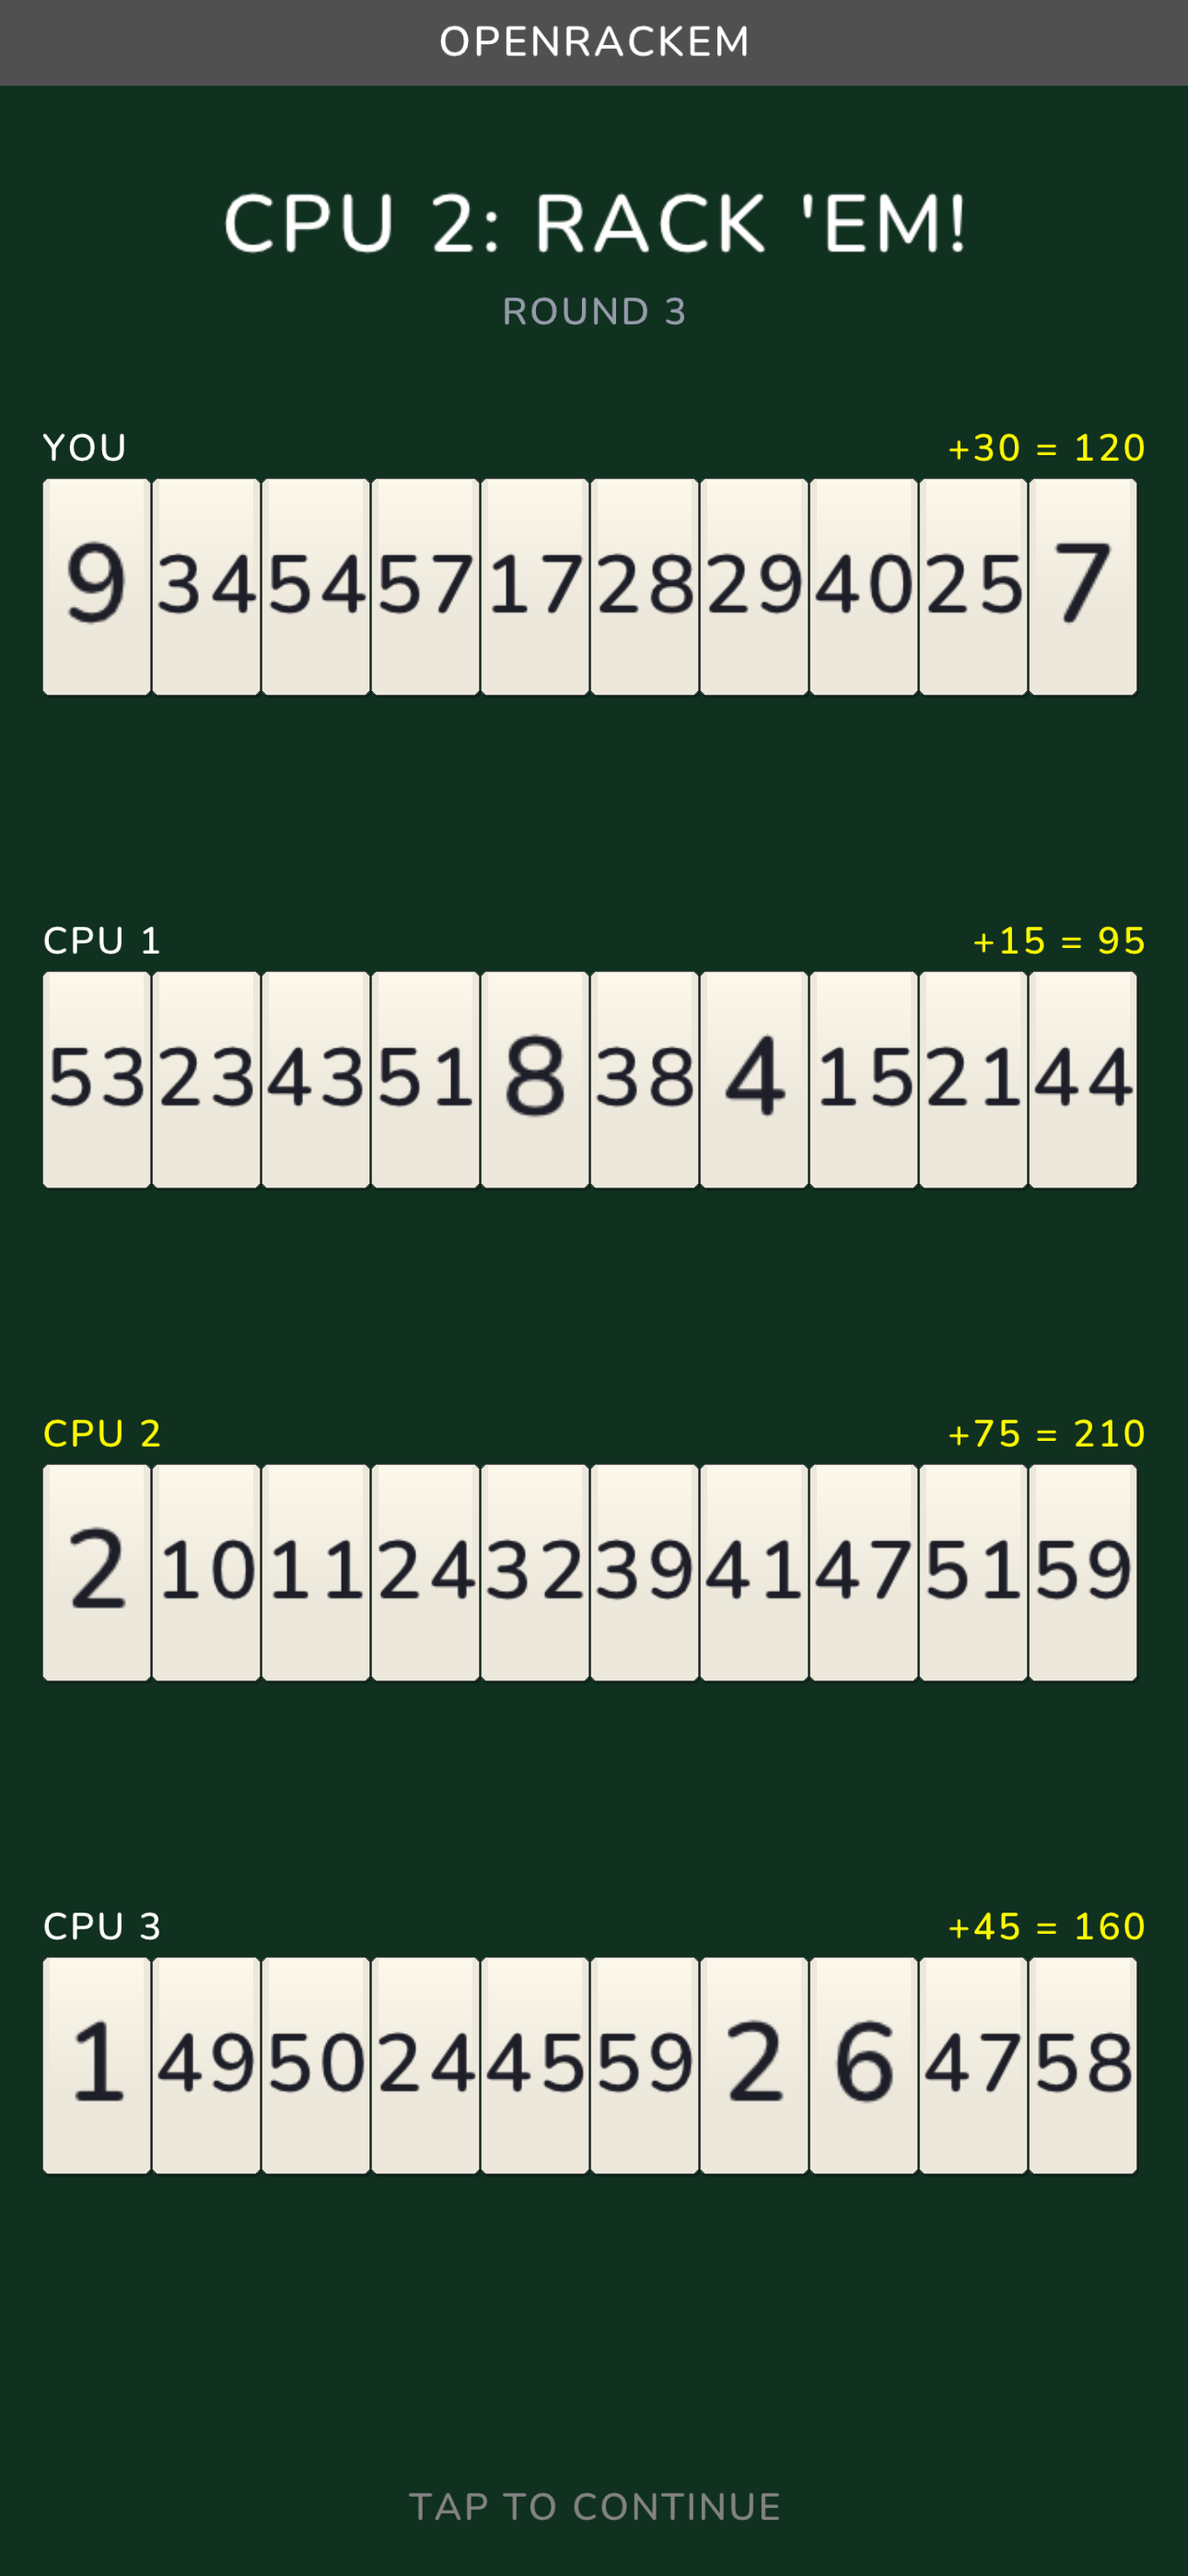
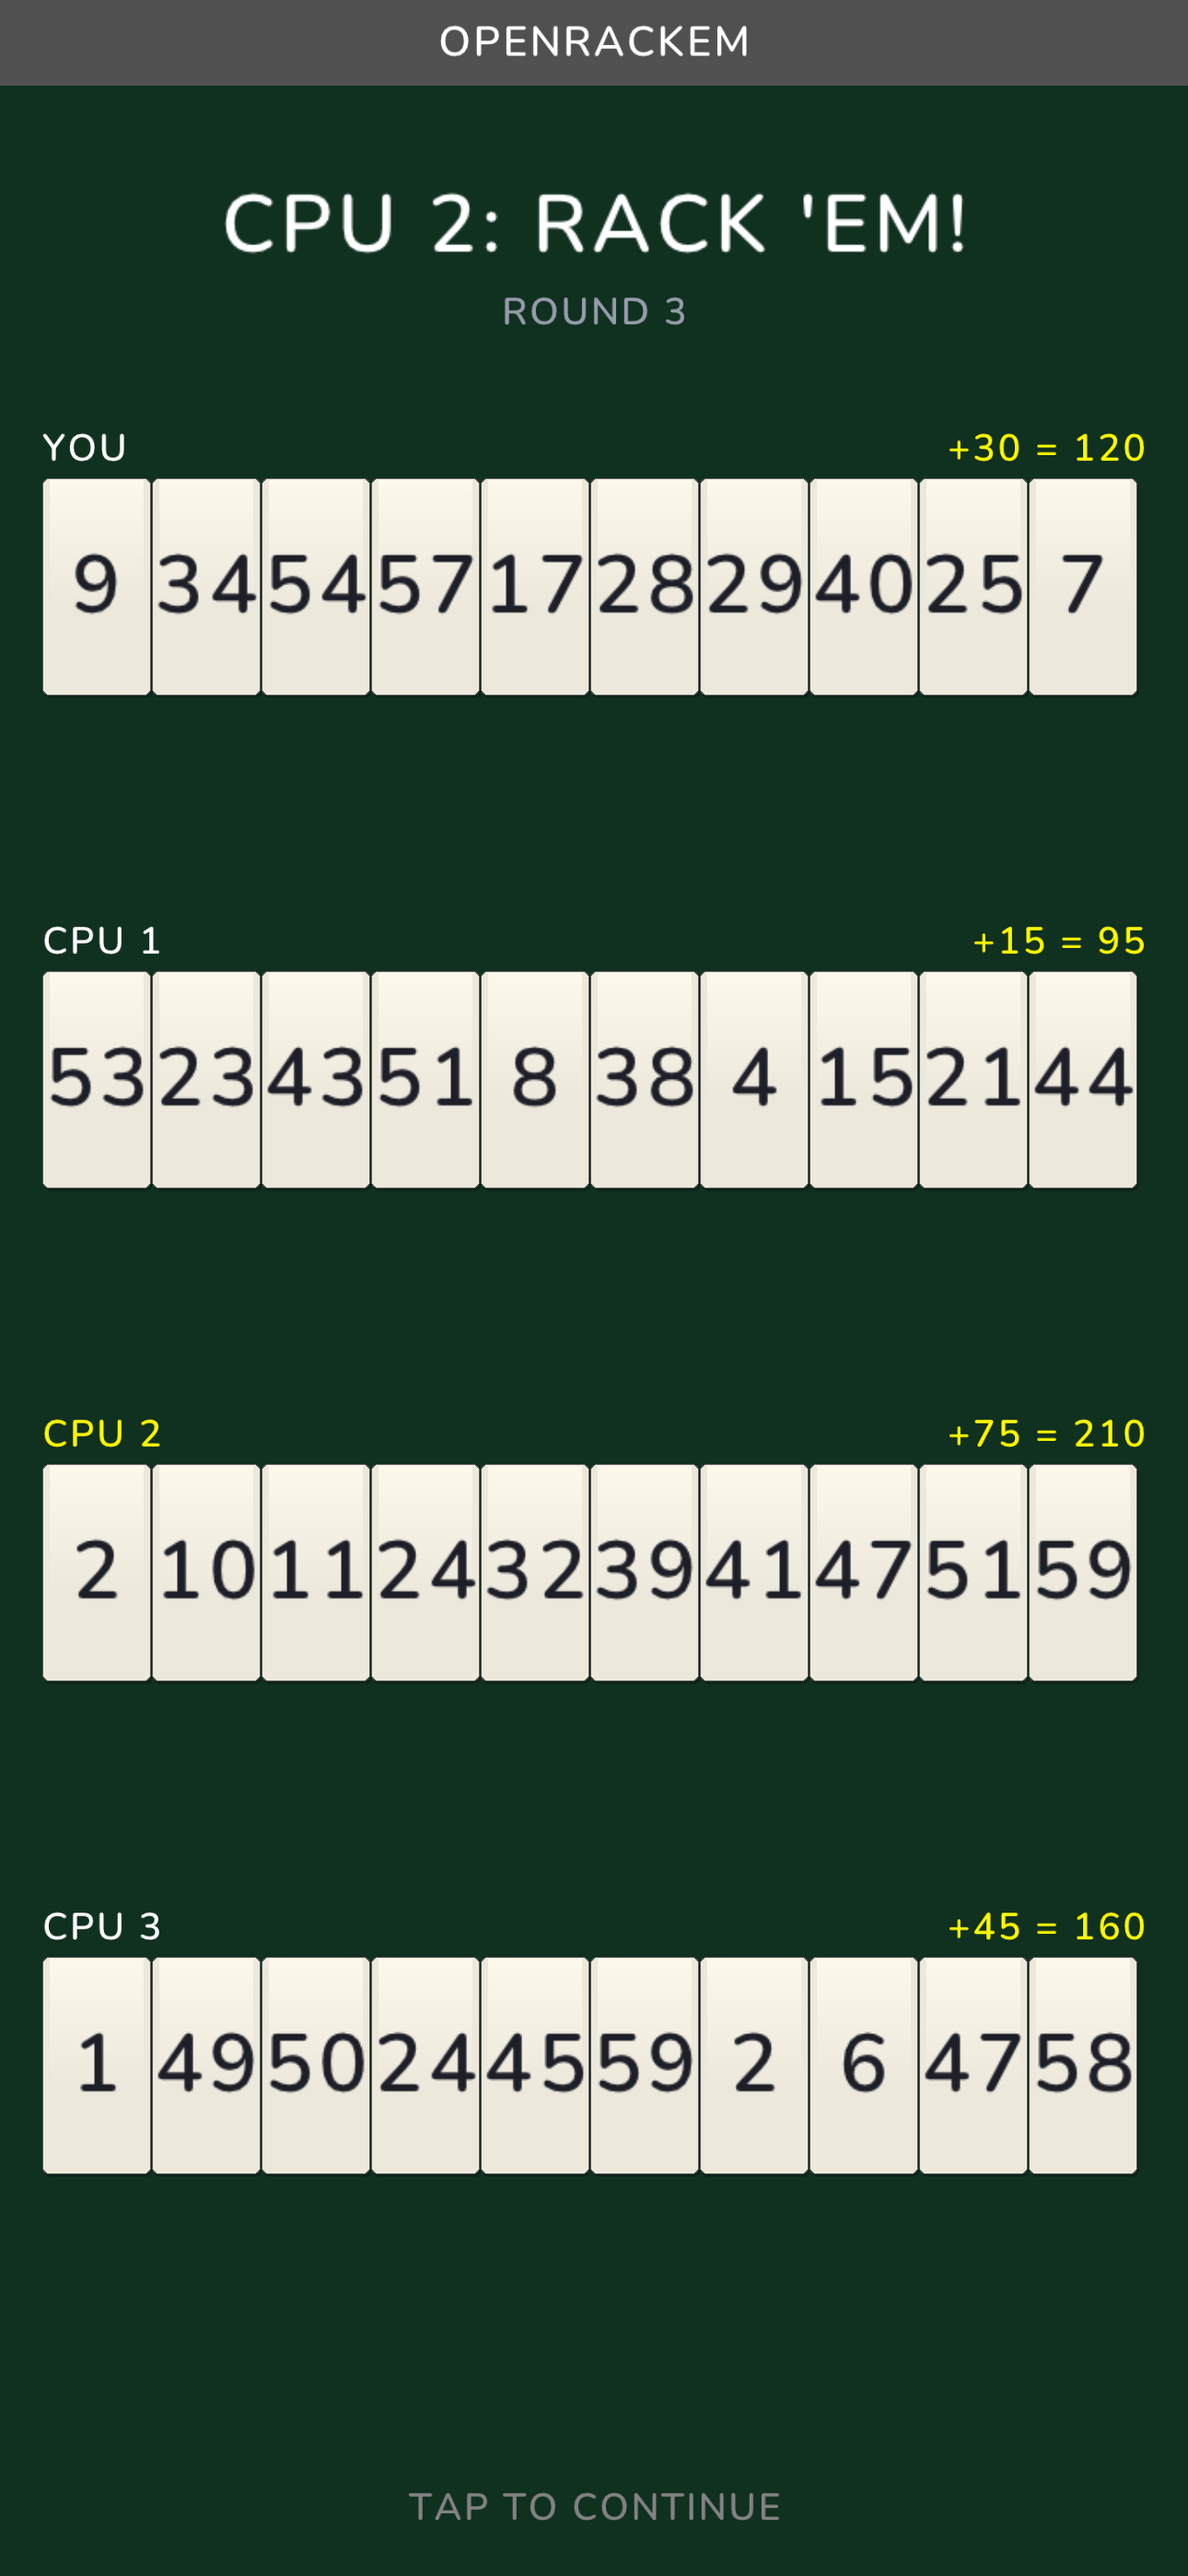
Portrait: two-column rack, in-card labels, uniform card numbers (#22)
* Portrait: two-column rack, in-card slot labels, stacked opponent rows

Measured on an iPhone 12 (1170x2532), the table spent its height on row count
and never spent its width at all: the rack was a 366px column in a 1170px
screen, 432px of bare felt to its left and 372px to its right.

Two rules caused that, and the second is the one that mattered.

card_w = card_h * 2 pinned the rack to a third of a phone's width. It was
written against a 540px test canvas, where it was the right shape.

card_h = available_vertical / RACK_SLOTS, with the printed number at 7/10 of
that, meant the digit size was set by the ROW COUNT, not by the width. So
widening the cards alone would have closed the empty space without making a
single number any bigger -- which is why the cards read as small even at 182px
tall. Only folding the strip could fix it.

The rack is now two columns of five: slots 9..5 (labels 50..30) down the left,
4..0 (25..5) down the right -- the same single descending strip, folded once.
Card width follows the screen. Cards go 366x182 -> 523x308, 2.4x the area, and
the numbers 127px -> 215px, about 42pt -> 72pt at 3x.

The slot number moves inside the card's top-left corner. The gutter it used to
sit in cost the cards width and left the whole group visibly right of centre
(the previous commit corrected the centring arithmetic; this removes the need
for it). Dim ink on a filled card, the pale label colour on an empty one.
[…]

diff --git a/src/render_portrait.c b/src/render_portrait.c
@@ -94,13 +94,29 @@ static void draw_title_bar(void) {
 // Everything is derived from the live screen size each frame, so rotation and
 // resize (web) re-fit automatically.
 typedef struct {
-    int m;                       // outer margin
-    int opp_y, opp_h, opp_fs;    // opponents band (one compact row per seat)
-    int stats_y, stats_fs;       // points / round / run, small
-    int status_y, status_fs;     // the instruction line under it, large
-    int rack_y, row, card_w, card_h, rack_x, label_fs;
+    int m;                          // outer margin
+    int opp_y, opp_h, opp_fs, opp_row;  // opponents: one full-width row each
+    int stats_y, stats_fs;          // points / round / run, small
+    int status_y, status_fs;        // the instruction line under it, large
+    // The rack is two columns of five. `rack_x` is the left column's edge and
+    // `col_gap` the space to the right one; `label_fs` sizes the slot number,
+    // which now sits inside the card.
+    int rack_y, row, rows, card_w, card_h, rack_x, col_gap, label_fs;
     int pile_y, pile_w, pile_h, pile_label_fs; // bottom band (3 pile spots)
 } PortraitLayout;
+
+// Where slot `s` sits. Slots 9..5 fill the left column top to bottom (labels 50
+// down to 30) and slots 4..0 the right (25 down to 5): the same single
+// descending strip the rack has always been, folded once so five rows of tall
+// cards fit where ten rows of thin ones used to.
+static Rectangle slot_rect(const PortraitLayout* L, int s) {
+    int half = RACK_SLOTS / 2;
+    int col  = (s < half) ? 1 : 0;
+    int idx  = (col == 0) ? (RACK_SLOTS - 1 - s) : (half - 1 - s);
+    return (Rectangle){ (float)(L->rack_x + col * (L->card_w + L->col_gap)),
+                        (float)(L->rack_y + idx * L->row),
+                        (float)L->card_w, (float)L->card_h };
+}
 
 static void portrait_layout(const Game* game, PortraitLayout* L) {
     int w = GetScreenWidth(), h = GetScreenHeight();
@@ -113,23 +129,23 @@ static void portrait_layout(const Game* game, PortraitLayout* L) {
     // 480px landscape canvas pinned every label at a couple of physical
     // millimetres and made the table unreadable on a real device. The LOWER
     // bounds are the ones that still do work, on the small web canvas.
+    // One full-width row per opponent, not three blocks sharing the width.
+    // Side by side, three names had a third of the screen each and had to be
+    // shrunk to ~12pt to fit; stacked, they keep the full size.
     int nopp = game->rules.player_count - 1;
-    L->opp_fs = clampi(h / 44, 10, 64);
-    // Two or three opponents share the width; shrink so a name, its thinking
-    // dots and the score fit one block without colliding.
-    if (nopp >= 3)      L->opp_fs = L->opp_fs * 5 / 8;
-    else if (nopp == 2) L->opp_fs = L->opp_fs * 4 / 5;
+    L->opp_fs  = clampi(h / 44, 10, 64);
+    L->opp_row = L->opp_fs * 3 / 2;
     L->m = m;
     L->opp_y = tb + m;
-    L->opp_h = (nopp > 0) ? L->opp_fs * 3 / 2 : 0;
+    L->opp_h = (nopp > 0) ? nopp * L->opp_row : 0;
 
     L->pile_label_fs = clampi(h / 52, 9, 48);
     L->pile_w = (w - 4 * m) / 3;
-    L->pile_h = L->pile_w * 5 / 8;
+    L->pile_h = L->pile_w * 3 / 4;
     // Keep the bottom band from swallowing a squat screen: cap at h/6.
     if (L->pile_h > h / 6) {
         L->pile_h = h / 6;
-        L->pile_w = L->pile_h * 8 / 5;
+        L->pile_w = L->pile_h * 4 / 3;
     }
     L->pile_y = h - m - L->pile_h;
 
@@ -141,18 +157,22 @@ static void portrait_layout(const Game* game, PortraitLayout* L) {
     L->stats_y  = L->pile_y - L->pile_label_fs - 6 - status_h;
     L->status_y = L->stats_y + L->stats_fs + 6;
 
+    // Five rows of two. Card width follows the screen instead of the old
+    // card_h*2 rule, which pinned the rack to a third of a phone's width and
+    // left the other two thirds as bare felt; card height follows the row,
+    // and the printed number is 7/10 of that, so halving the row count is what
+    // actually makes the numbers bigger.
     int rack_top = L->opp_y + L->opp_h + m;
     int avail = L->stats_y - m - rack_top;
-    L->row = avail / RACK_SLOTS;
-    L->card_h = L->row - 2;
+    L->rows = RACK_SLOTS / 2;
+    L->row = avail / L->rows;
+    L->card_h = L->row - m / 3;
     if (L->card_h < 8) L->card_h = 8;
-    L->card_w = clampi(L->card_h * 2, L->card_h + 24, w / 2);
-    L->label_fs = clampi(L->card_h / 2, 9, 56);
-    // Centre the rack as it reads: the slot labels sit outside the cards, so
-    // centring the card alone leaves the whole group visibly right of centre.
-    int label_w = gfx_measure_text("50", L->label_fs) + 8;
-    L->rack_x = (w - L->card_w + label_w) / 2;
-    L->rack_y = rack_top + (avail - L->row * RACK_SLOTS) / 2;
+    L->col_gap = m;
+    L->card_w = (w - 2 * m - L->col_gap) / 2;
+    L->rack_x = m;
+    L->rack_y = rack_top + (avail - L->row * L->rows) / 2;
+    L->label_fs = clampi(L->card_h / 4, 9, 72);
 }
 
 // Three dots beside an opponent's name, standing in for the card backs that
@@ -199,51 +219,61 @@ static void draw_table_portrait(const Game* game, const TableUi* ui) {
     // vertical space the rack itself needs to be legible on a phone.
     int nopp = game->rules.player_count - 1;
     if (nopp > 0) {
-        int bw = (w - L.m * (nopp + 1)) / nopp;
         int bi = 0;
         for (int s = 0; s < game->rules.player_count; s++) {
             if (s == focus) continue;
-            int bx = L.m + bi * (bw + L.m);
+            int by = L.opp_y + bi * L.opp_row;
+            int ty = by + (L.opp_row - L.opp_fs) / 2;
             bool their_turn = (game->turn == s &&
                                (game->phase == PHASE_DRAW || game->phase == PHASE_PLACE));
             if (their_turn) {
-                gfx_rect_lines(bx - 2, L.opp_y - 2, bw + 4, L.opp_h + 4, ACCENT);
+                gfx_rect_lines(L.m - 4, by, w - 2 * L.m + 8, L.opp_row, ACCENT);
             }
             snprintf(buf, sizeof buf, "%d", game->players[s].score);
-            int score_w = gfx_measure_text(buf, L.opp_fs);
-            int dots_w  = L.opp_fs;             // three dots plus their gaps
-            gfx_text(buf, bx + bw - score_w, L.opp_y + (L.opp_h - L.opp_fs) / 2,
-                     L.opp_fs, YELLOW);
-            draw_thinking_dots(bx + bw - score_w - L.opp_fs / 3 - dots_w,
-                               L.opp_y + L.opp_h / 2, L.opp_fs, their_turn);
+            gfx_text(buf, w - L.m - gfx_measure_text(buf, L.opp_fs), ty, L.opp_fs, YELLOW);
 
-            // Names are player-chosen online, so shrink one that would run
-            // into the dots rather than letting it overlap them.
+            // Dots on a fixed centre column so the rows line up as a table.
+            int dots_w = L.opp_fs;
+            draw_thinking_dots(w / 2 - dots_w / 2, by + L.opp_row / 2, L.opp_fs,
+                               their_turn);
+
+            // Names are player-chosen online, so shrink one that would run into
+            // the dots rather than letting it overlap them.
             const char* nm = seat_name(game, s);
-            int room = bw - score_w - dots_w - L.opp_fs;
+            int room = w / 2 - dots_w / 2 - L.m - L.opp_fs / 2;
             int nfs = L.opp_fs;
             while (nfs > 8 && gfx_measure_text(nm, nfs) > room) nfs -= 1;
-            gfx_text(nm, bx, L.opp_y + (L.opp_h - nfs) / 2, nfs,
+            gfx_text(nm, L.m, by + (L.opp_row - nfs) / 2, nfs,
                      their_turn ? ACCENT : WHITE);
             bi++;
         }
     }
 
-    // The rack: slot #50 on top, labels left of each card, full-width tap rows.
+    // The rack: two columns of five, slot #50 top-left, #5 bottom-right. The
+    // slot number is printed inside the card's top-left corner -- the old
+    // outside gutter cost the cards width and left the whole group sitting
+    // right of centre.
     int dealt = deal_cards_for_seat(game, focus);
     for (int s = RACK_SLOTS - 1; s >= 0; s--) {
-        int y = L.rack_y + (RACK_SLOTS - 1 - s) * L.row;
-        snprintf(buf, sizeof buf, "%d", (s + 1) * 5);
-        gfx_text(buf, L.rack_x - 8 - gfx_measure_text(buf, L.label_fs),
-                 y + (L.card_h - L.label_fs) / 2, L.label_fs, SLOT_LABEL);
-        if (RACK_SLOTS - 1 - s < dealt) {
+        Rectangle r = slot_rect(&L, s);
+        int x = (int)r.x, y = (int)r.y;
+        bool filled = (RACK_SLOTS - 1 - s < dealt);
+        if (filled) {
             bool cur = (human_turn && game->phase == PHASE_PLACE && ui->cursor == s);
-            draw_card(L.rack_x, y, L.card_w, L.card_h,
+            draw_card(x, y, L.card_w, L.card_h,
                       game->players[focus].rack.slots[s], true, cur);
         } else {
-            draw_card_outline(L.rack_x, y, L.card_w, L.card_h);
+            draw_card_outline(x, y, L.card_w, L.card_h);
         }
-        table_hit_set(s, (Rectangle){0, (float)y, (float)w, (float)L.row});
+        snprintf(buf, sizeof buf, "%d", (s + 1) * 5);
+        // Dim ink on the pale card face, the pale label colour on bare felt.
+        gfx_text(buf, x + L.card_h / 10, y + L.card_h / 12, L.label_fs,
+                 filled ? (Color){140, 140, 150, 255} : SLOT_LABEL);
+        // Tap target: the card plus the gaps around it, so the whole row band
+        // stays live and no dead strip sits between the columns.
+        table_hit_set(s, (Rectangle){r.x - L.col_gap / 2.0f,
+                                     r.y - (L.row - L.card_h) / 2.0f,
+                                     r.width + L.col_gap, (float)L.row});
     }
 
     // Status line: score, round, whose turn / what a tap does.
@@ -351,16 +381,16 @@ static void draw_table_portrait(const Game* game, const TableUi* ui) {
             break;
         case ANIM_PLACE:
             if (game->anim.seat == focus) {
-                int y = L.rack_y + (RACK_SLOTS - 1 - game->anim.slot) * L.row;
-                from = (Rectangle){(float)L.rack_x, (float)y, (float)L.card_w, (float)L.card_h};
+                from = slot_rect(&L, game->anim.slot);
             } else {
                 int bi = 0;
                 for (int s = 0; s < game->anim.seat; s++) {
                     if (s != focus) bi++;
                 }
-                int bw = (w - L.m * (game->rules.player_count)) / (game->rules.player_count - 1);
-                from = (Rectangle){(float)(L.m + bi * (bw + L.m) + bw / 2 - 12),
-                                   (float)(L.opp_y + 4), 24.0f, (float)(L.opp_h - 8)};
+                // Out of their row, from the middle of it.
+                from = (Rectangle){(float)(w / 2 - L.opp_row / 2),
+                                   (float)(L.opp_y + bi * L.opp_row),
+                                   (float)L.opp_row, (float)L.opp_row};
             }
             draw_flying_card(from, discard_r, t, game->anim.card, true);
             break;

diff --git a/src/render.c b/src/render.c
@@ -79,7 +79,10 @@ void draw_card(int x, int y, int w, int h, int value, bool face_up, bool highlig
         snprintf(txt, sizeof txt, "%d", value);
         int fs = h * 7 / 10;
         if (fs < 8) fs = 8;
-        while (fs > 8 && gfx_measure_text(txt, fs) > w - 6) fs -= 2;
+        // Fit the WIDEST value the deck can hold, not this card's own digits.
+        // Sized per-card, a "9" kept the full size while a "54" was stepped
+        // down to fit, so a revealed rack printed at a dozen different sizes.
+        while (fs > 8 && gfx_measure_text("00", fs) > w - 6) fs -= 2;
         gfx_text(txt, x + (w - gfx_measure_text(txt, fs)) / 2, y + (h - fs) / 2,
                  fs, CARD_TEXT);
     } else {
